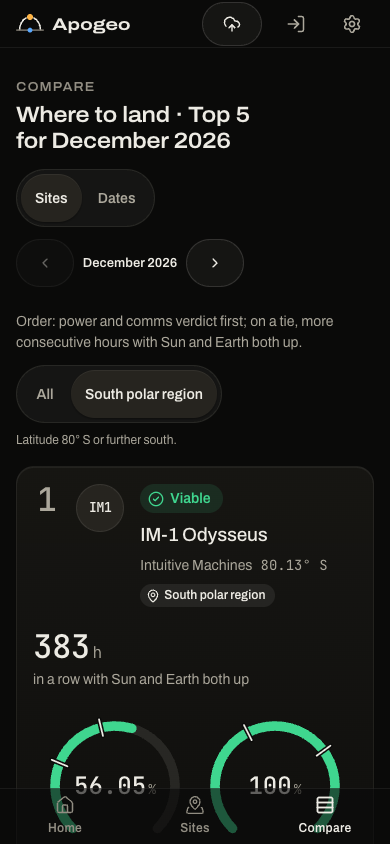
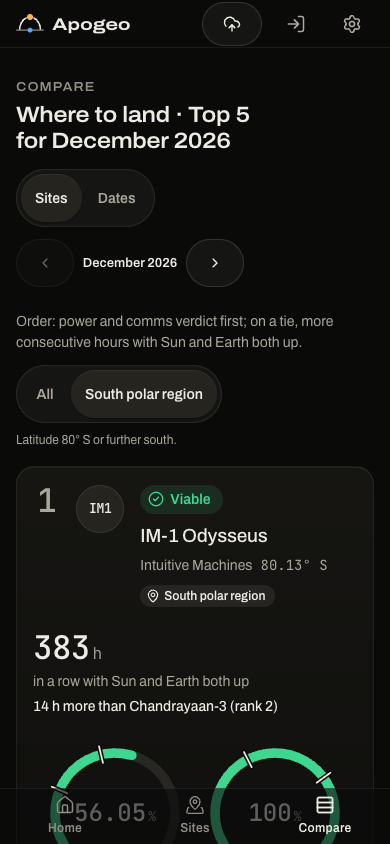
feat(comparar): la cifra decisiva lleva a la vista con qué puesto se compara
Cada fila dice cuántas horas más o menos tiene frente al puesto 1 (el primero, frente al segundo). No se
resta si alguna ventana está cortada por el borde del periodo. Capturas actualizadas.

diff --git a/src/components/comparar/TopSitios.tsx b/src/components/comparar/TopSitios.tsx
@@ -4,7 +4,7 @@ import { useCifraAnimada } from "../../hooks/useCifraAnimada";
 import { useMovimientoReducido } from "../../hooks/useMovimientoReducido";
 import type { PuestoRanking } from "../../hooks/useRanking";
 import { avisoDeRelieve } from "../../lib/astro";
-import { esPolarSur, esTruncada } from "../../lib/comparar";
+import { esPolarSur, esTruncada, frenteAlRanking } from "../../lib/comparar";
 import { MOVIMIENTO, RANKING, SEMAFORO } from "../../lib/constants";
 import { horas, latitud, nombreCorto, numeroCorto } from "../../lib/formato";
 import { T } from "../../lib/textos";
@@ -18,17 +18,18 @@ const UMBRALES = {
   comunicacion: { viable: SEMAFORO.COMUNICACION.VERDE_MIN, reservas: SEMAFORO.COMUNICACION.AMARILLO_MIN },
 };
 /** Alto reservado de una fila (también del hueco de carga): nada salta cuando llegan los datos. */
-const ALTO_FILA = "min-h-[28.75rem] lg:min-h-[15.1875rem]";
-const REJILLA = "grid items-center gap-x-8 gap-y-5 lg:grid-cols-[minmax(0,1fr)_auto_minmax(13rem,auto)]";
+const ALTO_FILA = "min-h-[30.5rem] lg:min-h-[15.1875rem]";
+const REJILLA = "grid items-center gap-x-8 gap-y-5 lg:grid-cols-[minmax(0,1fr)_auto_minmax(13rem,17rem)]";
 
 /** La cifra decisiva: horas seguidas con Sol y Tierra a la vez. Interpola solo cuando cambia el periodo. */
-function CifraDecisiva({ fila }: { fila: PuestoRanking }) {
+function CifraDecisiva({ fila, ranking }: { fila: PuestoRanking; ranking: readonly PuestoRanking[] }) {
   const t = T.comparar;
   const valor = fila.ventana?.horas ?? 0;
   const cifra = useCifraAnimada<HTMLSpanElement>(valor, numeroCorto);
   if (!fila.ventana) return <p className="text-apoyo text-texto-2">{t.top.sinVentana}</p>;
   const cortada = esTruncada(fila.ventana);
   const leido = horas(valor);
+  const frente = frenteAlRanking(ranking, fila);
   return (
     <div className="min-w-0 max-lg:order-2">
       <p className="text-dato-xl text-texto font-mono font-medium whitespace-nowrap" data-dato>
@@ -40,11 +41,16 @@ function CifraDecisiva({ fila }: { fila: PuestoRanking }) {
         </span>
       </p>
       <p aria-hidden="true" className="text-apoyo text-texto-2 mt-1.5 text-pretty">{t.top.decisiva}</p>
+      {frente && (
+        <p className="text-apoyo text-texto mt-1 font-medium text-pretty" data-dato>
+          {t.top.frente(frente.dif_h, horas(Math.abs(frente.dif_h)), nombreCorto(frente.rival.sitio.nombre), frente.rival.puesto)}
+        </p>
+      )}
     </div>
   );
 }
 
-function Fila({ fila, elegido, alAlternar }: { fila: PuestoRanking; elegido: boolean; alAlternar: () => void }) {
+function Fila({ fila, ranking, elegido, alAlternar }: { fila: PuestoRanking; ranking: readonly PuestoRanking[]; elegido: boolean; alAlternar: () => void }) {
   const t = T.comparar;
   const reducido = useMovimientoReducido();
   const { sitio, metrica } = fila;
@@ -91,7 +97,7 @@ function Fila({ fila, elegido, alAlternar }: { fila: PuestoRanking; elegido: boo
           <Medidor valor={metrica.pct_sol} umbrales={UMBRALES.energia} rotulo={t.filas.energia} unidad="%" tamano="md" animar={false} />
           <Medidor valor={metrica.pct_tierra} umbrales={UMBRALES.comunicacion} rotulo={t.filas.comunicacion} unidad="%" tamano="md" animar={false} />
         </div>
-        <CifraDecisiva fila={fila} />
+        <CifraDecisiva fila={fila} ranking={ranking} />
       </PanelVidrio>
       {/* Toda la fila es el objetivo táctil: un toque abre (o cierra) su detalle. El contenido queda debajo, legible. */}
       <button type="button" aria-pressed={elegido} aria-label={elegido ? t.top.quitar(nombre) : t.top.elegir(nombre)} onClick={alAlternar}
@@ -105,8 +111,8 @@ function Fila({ fila, elegido, alAlternar }: { fila: PuestoRanking; elegido: boo
  * palabra), dos medidores (energía y comunicación) y la cifra decisiva. Al cambiar de periodo las filas se
  * recolocan (el cambio de puesto es el mensaje). Mientras carga se reserva el alto de los puestos.
  */
-export function TopSitios({ filas, elegidos, alAlternar, cargando, vacio }: {
-  filas: PuestoRanking[]; elegidos: readonly string[]; alAlternar: (id: string) => void; cargando: boolean; vacio: string;
+export function TopSitios({ filas, ranking, elegidos, alAlternar, cargando, vacio }: {
+  filas: PuestoRanking[]; ranking: readonly PuestoRanking[]; elegidos: readonly string[]; alAlternar: (id: string) => void; cargando: boolean; vacio: string;
 }) {
   const t = T.comparar.top;
   if (cargando) {
@@ -120,7 +126,7 @@ export function TopSitios({ filas, elegidos, alAlternar, cargando, vacio }: {
   return (
     <ol aria-label={t.lista(Math.min(RANKING.PUESTOS, filas.length))} className="mt-4 grid gap-3">
       <AnimatePresence mode="popLayout" initial={false}>
-        {filas.map((f) => <Fila key={f.sitio.site_id} fila={f} elegido={elegidos.includes(f.sitio.site_id)} alAlternar={() => alAlternar(f.sitio.site_id)} />)}
+        {filas.map((f) => <Fila key={f.sitio.site_id} fila={f} ranking={ranking} elegido={elegidos.includes(f.sitio.site_id)} alAlternar={() => alAlternar(f.sitio.site_id)} />)}
       </AnimatePresence>
     </ol>
   );

diff --git a/src/lib/comparar.test.ts b/src/lib/comparar.test.ts
@@ -1,4 +1,4 @@
-import { decidir, diferencias, esPolarSur, esTruncada, monograma, ordenarRanking, rachaDe, varianteRacha, visiblesDelRanking, type LineaComparada } from "./comparar";
+import { decidir, diferencias, esPolarSur, esTruncada, frenteAlRanking, monograma, ordenarRanking, rachaDe, varianteRacha, visiblesDelRanking, type LineaComparada } from "./comparar";
 import { RANKING, RUTAS } from "./constants";
 import type { Racha } from "./tipos";
 import * as en from "./textos.en";
@@ -140,6 +140,17 @@ describe("ranking de sitios", () => {
     const orden = ordenarRanking(Array.from({ length: 8 }, (_, i) => c(`s${i}`, "verde", 100 - i)));
     expect(visiblesDelRanking(orden, () => false).map((o) => o.puesto)).toEqual([1, 2, 3, 4, 5]);
     expect(visiblesDelRanking(orden, (o) => o.id === "s6").map((o) => o.puesto)).toEqual([1, 2, 3, 4, 5, 7]);
+  });
+  it("la cifra decisiva se compara a la vista: el primero con el segundo y los demás con el primero", () => {
+    const v = (horas: number, trunca_fin = false) => ({ horas, inicio_utc: null, fin_utc: null, trunca_inicio: false, trunca_fin });
+    const orden = [{ puesto: 1, ventana: v(383) }, { puesto: 2, ventana: v(369) }, { puesto: 3, ventana: v(100, true) }, { puesto: 4, ventana: null }];
+    expect(frenteAlRanking(orden, orden[0])).toMatchObject({ dif_h: 14, rival: { puesto: 2 } });
+    expect(frenteAlRanking(orden, orden[1])).toMatchObject({ dif_h: -14, rival: { puesto: 1 } });
+    expect(frenteAlRanking(orden, orden[2])).toBeNull(); // «≥ 100 h» no se resta
+    expect(frenteAlRanking(orden, orden[3])).toBeNull(); // sin dato
+    expect(frenteAlRanking([orden[0]], orden[0])).toBeNull(); // nadie con quien comparar
+    expect(es.T.comparar.top.frente(14, "14 h", "Chandrayaan-3", 2)).toBe("14 h más que Chandrayaan-3 (puesto 2)");
+    expect(en.T.comparar.top.frente(-14, "14 h", "IM-1 Odysseus", 1)).toBe("14 h less than IM-1 Odysseus (rank 1)");
   });
   it("la región polar sur empieza en el paralelo 80° S (constante RANKING.POLAR_SUR_LAT_MAX_DEG)", () => {
     expect(RANKING.POLAR_SUR_LAT_MAX_DEG).toBe(-80);

diff --git a/src/lib/comparar.ts b/src/lib/comparar.ts
@@ -124,6 +124,17 @@ export function ordenarRanking<C extends Candidato>(candidatos: readonly C[]): (
     .map(({ c }, i) => ({ ...c, puesto: i + 1 }));
 }
 
+/**
+ * Con qué se compara la cifra decisiva de un puesto: el primero, con el segundo; los demás, con el primero.
+ * Devuelve las horas de diferencia (con signo) y el puesto rival, o null si falta el dato o alguna de las dos
+ * ventanas está cortada por el borde del periodo (un «≥» no se puede restar sin inventar).
+ */
+export function frenteAlRanking<C extends { puesto: number; ventana: Racha | null }>(ranking: readonly C[], fila: C): { dif_h: number; rival: C } | null {
+  const rival = ranking.find((c) => c.puesto === (fila.puesto === 1 ? 2 : 1));
+  if (!rival || !fila.ventana || !rival.ventana || esTruncada(fila.ventana) || esTruncada(rival.ventana)) return null;
+  return { dif_h: fila.ventana.horas - rival.ventana.horas, rival };
+}
+
 /** Los primeros puestos del ranking más los elegidos que quedan fuera (con su puesto real), en orden de puesto. */
 export const visiblesDelRanking = <C extends { puesto: number }>(ranking: readonly C[], elegido: (c: C) => boolean): C[] =>
   ranking.filter((c) => c.puesto <= RANKING.PUESTOS || elegido(c));

diff --git a/src/routes/Comparar.tsx b/src/routes/Comparar.tsx
@@ -202,7 +202,7 @@ function Ranking({ sitios, periodo }: { sitios: Site[]; periodo: ReturnType<type
         </div>
         {zona === "polar" && <p className="text-texto-2 mt-2 text-[0.75rem]">{t.top.polarSurAyuda(grados(Math.abs(RANKING.POLAR_SUR_LAT_MAX_DEG), 0))}</p>}
         <div className={unir("transition-opacity duration-(--dur-corta)", actualizando && "opacity-60")}>
-          <TopSitios filas={filas} elegidos={elegidos} alAlternar={alternar} cargando={!listo} vacio={t.top.sinPolares} />
+          <TopSitios filas={filas} ranking={ranking} elegidos={elegidos} alAlternar={alternar} cargando={!listo} vacio={t.top.sinPolares} />
         </div>
         <div className="mt-3 flex min-h-12 flex-wrap items-center justify-between gap-x-6 gap-y-2">
           <p role="status" className="text-apoyo text-texto-2">

diff --git a/src/lib/textos.en.ts b/src/lib/textos.en.ts
@@ -749,6 +749,9 @@ export const T: Textos = {
       decisiva: "in a row with Sun and Earth both up",
       decisivaLeida: (valor: string) => `You get Sun and Earth together for ${valor} in a row`,
       sinVentana: "No window data",
+      // What the decisive figure is compared with: "14 h more than Chandrayaan-3 (rank 2)".
+      frente: (dif: number, valor: string, rival: string, puesto: number) =>
+        dif === 0 ? `Same as ${rival} (rank ${puesto})` : `${valor} ${dif > 0 ? "more" : "less"} than ${rival} (rank ${puesto})`,
       elegir: (nombre: string) => `Open the detail for ${nombre}`,
       quitar: (nombre: string) => `Remove ${nombre} from the detail`,
       enDetalle: "In the detail",

diff --git a/src/lib/textos.es.ts b/src/lib/textos.es.ts
@@ -750,6 +750,9 @@ export const T = {
       decisiva: "seguidas con Sol y Tierra a la vez",
       decisivaLeida: (valor: string) => `Tendrás Sol y Tierra a la vez ${valor} seguidas`,
       sinVentana: "Sin datos de ventana",
+      // Con qué se compara la cifra decisiva: «14 h más que Chandrayaan-3 (puesto 2)».
+      frente: (dif: number, valor: string, rival: string, puesto: number) =>
+        dif === 0 ? `Las mismas que ${rival} (puesto ${puesto})` : `${valor} ${dif > 0 ? "más" : "menos"} que ${rival} (puesto ${puesto})`,
       elegir: (nombre: string) => `Abrir el detalle de ${nombre}`,
       quitar: (nombre: string) => `Quitar ${nombre} del detalle`,
       enDetalle: "En el detalle",
